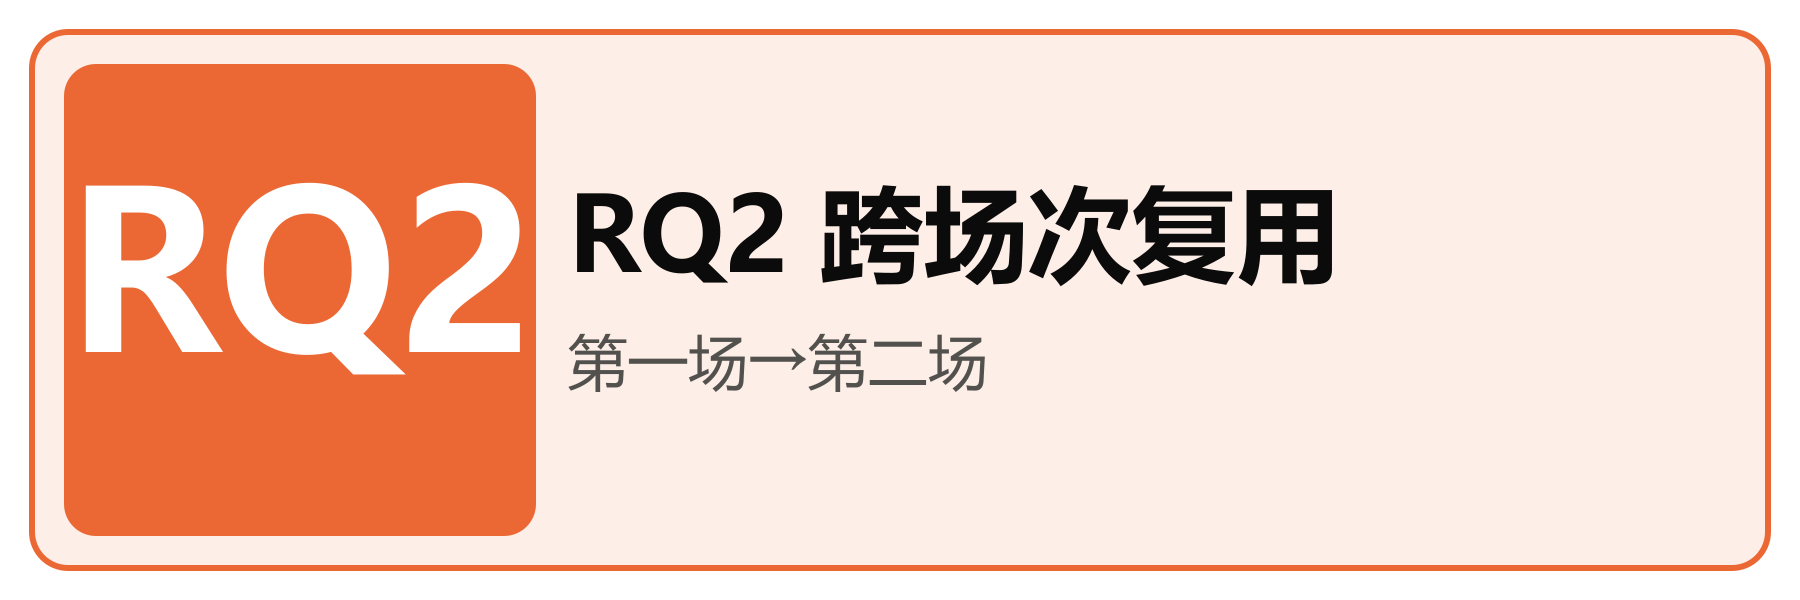
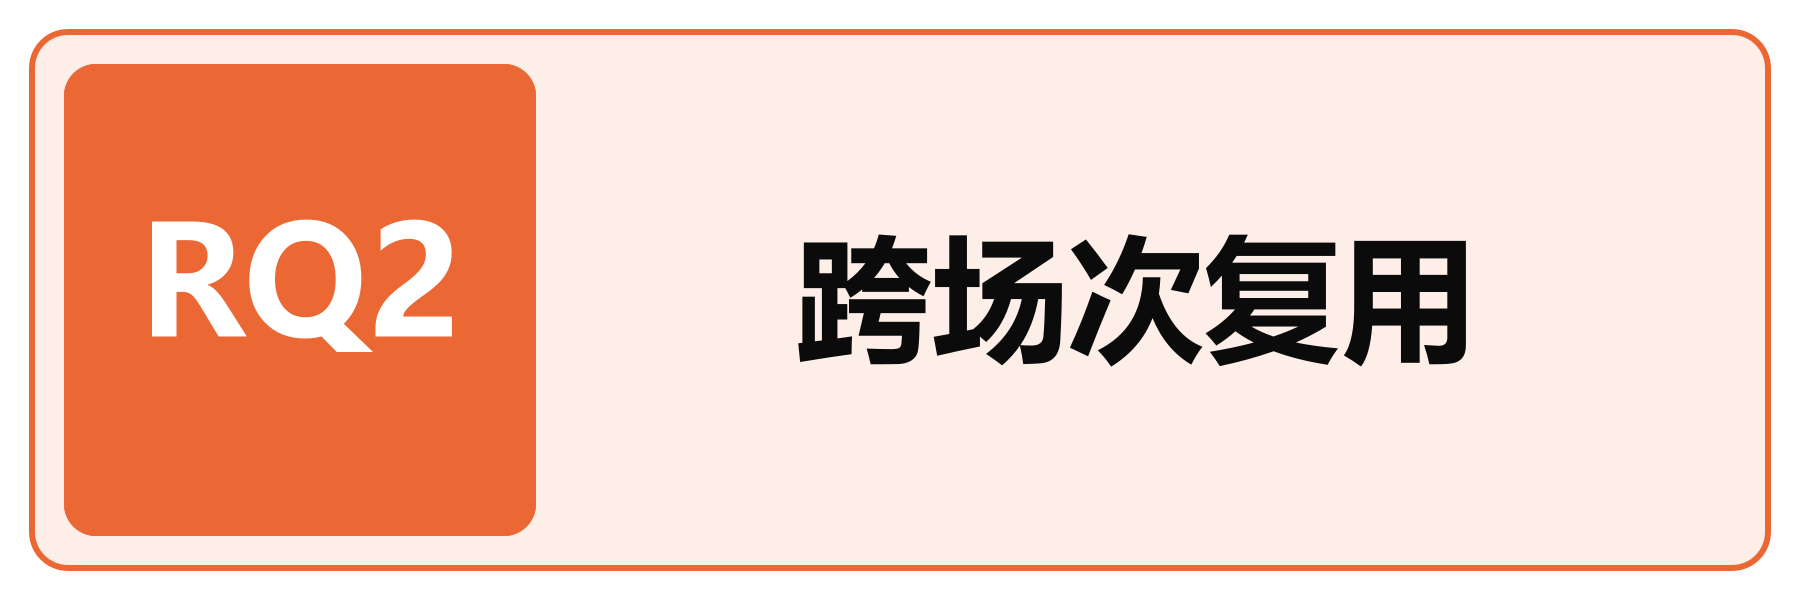
docs(ppt): 重做 RQ1-RQ5 配图——序号入左色块、去掉小字、大字居中（不改 PPT）

Changed region(s): [[0.0311, 0.3, 0.84, 0.66]]

diff --git a/docs/figures/ppt/generate_ppt_svgs.py b/docs/figures/ppt/generate_ppt_svgs.py
@@ -60,7 +60,10 @@ def render_icon(title, sub, letter, color, bg, w=900, h=300):
     S += f'<rect x="16" y="16" width="{w-32}" height="{h-32}" rx="18" fill="{bg}" stroke="{color}" stroke-width="3"/>'
     # 左侧大编号
     S += f'<rect x="32" y="32" width="{h-64}" height="{h-64}" rx="16" fill="{color}"/>'
-    S += f'<text x="{32+(h-64)/2}" y="{h/2+26}" font-size="110px" font-weight="700" fill="{WHITE}" text-anchor="middle" font-family="Microsoft YaHei, SimHei, sans-serif">{esc(letter)}</text>'
+    letter_size = 110 if len(letter) <= 2 else 76 if len(letter) == 3 else 60
+    S += f'<rect x="32" y="32" width="{h-64}" height="{h-64}" rx="16" fill="{color}"/>'
+    S += f'<text x="{32+(h-64)/2}" y="{h/2 + letter_size*0.24}" font-size="{letter_size}px" font-weight="700" fill="{WHITE}" text-anchor="middle" font-family="Microsoft YaHei, SimHei, sans-serif">{esc(letter)}</text>'
+
     # 右侧文字
     left_block_right = 32 + (h - 64)          # 左侧色块右边缘
     right_block_right = w - 32                 # 右侧剩余区域右边缘
@@ -187,11 +190,11 @@ TASKS = [
  dict(f="ppt_p3", kind="icon", w=900,h=300, title="查询口径混杂", sub="", letter="P3", color=GREEN, bg=GREEN_BG),
  dict(f="ppt_p4", kind="icon", w=900,h=300, title="库噪声", sub="", letter="P4", color=PURPLE, bg=PURPLE_BG),
  dict(f="ppt_p5", kind="icon", w=900,h=300, title="目标检索弱", sub="", letter="P5", color=YELLOW, bg=YELLOW_BG),
- dict(f="ppt_rq1", kind="icon", w=900,h=300, title="RQ1 双库贡献", sub="G2 vs G3 消融", letter="RQ1", color=BLUE, bg=BLUE_BG),
- dict(f="ppt_rq2", kind="icon", w=900,h=300, title="RQ2 跨场次复用", sub="第一场→第二场", letter="RQ2", color=ORANGE, bg=ORANGE_BG),
- dict(f="ppt_rq3", kind="icon", w=900,h=300, title="RQ3 检索策略", sub="hybrid vs 单路", letter="RQ3", color=GREEN, bg=GREEN_BG),
- dict(f="ppt_rq4", kind="icon", w=900,h=300, title="RQ4 滤噪与遗忘", sub="阈值/保护线", letter="RQ4", color=PURPLE, bg=PURPLE_BG),
- dict(f="ppt_rq5", kind="icon", w=900,h=300, title="RQ5 真实模型", sub="DeepSeek 引用率", letter="RQ5", color=YELLOW, bg=YELLOW_BG),
+ dict(f="ppt_rq1", kind="icon", w=900,h=300, title="双库贡献", sub="", letter="RQ1", color=BLUE, bg=BLUE_BG),
+ dict(f="ppt_rq2", kind="icon", w=900,h=300, title="跨场次复用", sub="", letter="RQ2", color=ORANGE, bg=ORANGE_BG),
+ dict(f="ppt_rq3", kind="icon", w=900,h=300, title="检索策略", sub="", letter="RQ3", color=GREEN, bg=GREEN_BG),
+ dict(f="ppt_rq4", kind="icon", w=900,h=300, title="滤噪与遗忘", sub="", letter="RQ4", color=PURPLE, bg=PURPLE_BG),
+ dict(f="ppt_rq5", kind="icon", w=900,h=300, title="真实模型", sub="", letter="RQ5", color=YELLOW, bg=YELLOW_BG),
  # 中图（无图位页面的备注建议图，1000x560）
  dict(f="ppt_four_principles", kind="cards", title="总体思路四原则", sub="外部系统 · 复盘晋升 · 建议执行分离 · 阶段感知",
       items=["外部系统","复盘晋升","建议-执行","阶段感知"]),
